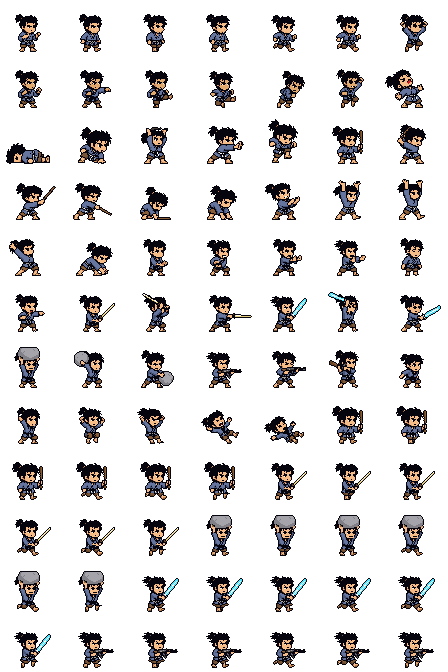
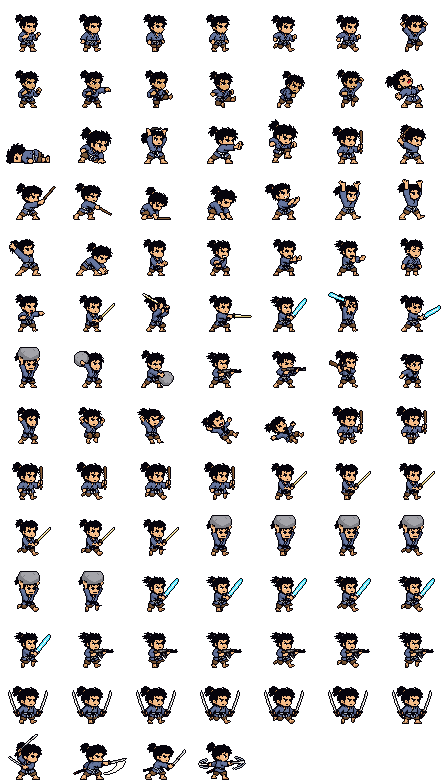
Own animations for the twin swords, from a generated sheet
Idle, walk, run, jump, the three slashes and the spinning pose of 炫風斬 come from art-src/sheet-twin.jpg. The sixth pose is cut out by hand because its blades touch the fifth cell.

Claude-Session: https://claude.ai/code/session_01WLaGBswDdpBGgJz1ff3MSA

diff --git a/src/client/render.ts b/src/client/render.ts
@@ -239,7 +239,9 @@ export class Renderer {
     const whirl = f.s === St.Whirl;
     if (tatsu) drawTornado(ctx, ox, oy - Math.round(f.z), f.t, true);
     const blades: [number, number] = f.w2 ? [f.w, f.w2] : [f.w, f.w];
-    if (whirl) drawWhirl(ctx, ox, oy - Math.round(f.z), f.t, false, blades);
+    // the twin swords have their own whirling picture; without it the arms and blades are drawn here
+    const whirlGfx = whirl && !(f.w === WID.Twin && !f.w2 && this.assets.hasArmed(f.d, f.w));
+    if (whirlGfx) drawWhirl(ctx, ox, oy - Math.round(f.z), f.t, false, blades);
     ctx.save();
     ctx.translate(ox, oy - Math.round(f.z));
     // 龍捲風腳 / 炫風斬: the body spins around its own axis, which on a flat sprite is a quick flip
@@ -248,7 +250,7 @@ export class Renderer {
     this.paint(ctx, f);
     ctx.restore();
     if (tatsu) drawTornado(ctx, ox, oy - Math.round(f.z), f.t, false);
-    if (whirl) drawWhirl(ctx, ox, oy - Math.round(f.z), f.t, true, blades);
+    if (whirlGfx) drawWhirl(ctx, ox, oy - Math.round(f.z), f.t, true, blades);
     if (f.s === St.Barrage) drawBarrage(ctx, ox, oy - Math.round(f.z), f.r, f.t);
     if (f.w === WID.Gatling && f.ht > GATLING.overheat) drawSteam(ctx, ox + f.r * 38, oy - Math.round(f.z) - 21, now);
     if (f.b & 2) drawShield(ctx, ox + f.r * 15, oy - Math.round(f.z), shieldMs, now, !!(f.b & 8));
@@ -662,7 +664,7 @@ function artFor(f: SnapFighter, hasArt: boolean): { weapon: number; anim?: strin
   if (f.s === St.Beam) return { weapon: 0, anim: f.t >= BEAM.charge + BEAM.fire ? 'beamend' : 'beam', t: f.t };
   if (f.s === St.Barrage) return { weapon: 0, anim: 'punch', t: f.t % 12 };
   if (f.s === St.Tatsu) return { weapon: 0, anim: 'kick', t: 7 };
-  if (f.s === St.Whirl) return { weapon: 0, anim: 'idle', t: 0 };
+  if (f.s === St.Whirl) return hasArt ? { weapon: 0, anim: 'whirl', t: f.t } : { weapon: 0, anim: 'idle', t: 0 };
   if ((f.s === St.Idle || f.s === St.Walk || f.s === St.Run) && f.c > 0) return { weapon: 0, anim: 'cast', t: 0 };
   if (!f.w) return { weapon: 0, t: f.t };
   if (f.w === WID.Stick || hasArt) return { weapon: f.w, t: f.t };

diff --git a/tools/build_sprites.py b/tools/build_sprites.py
@@ -53,6 +53,10 @@ SHEETS = [
          scale_from="sheet-weapon.png", main_only=True),
     dict(file="sheet-special.jpg", grid=(3, 2), names=["charge1", "charge2", "fire1", "fire2", "recover", "cast"],
          ref="recover", main_only=True, gain=1.12),
+    dict(file="sheet-twin.jpg", grid=(3, 2), names=["tready", "twind", "tslash1", "tslash2", "twhirl1", "twhirl2"],
+         ref="tready", main_only=True, split="components", grow=0, skip=["twhirl1", "twhirl2"]),
+    # the sixth pose's blades touch the fifth cell, so it is cut out of the sheet by hand
+    dict(file="sheet-twin-whirl.jpg", grid=(1, 1), names=["twhirl2"], scale_from="sheet-twin.jpg", main_only=True),
     dict(file="sheet-blades.jpg", grid=(3, 2), names=["bready", "bwind", "bstrike", "sready", "sstrike", "swind"],
          scale_from="sheet-special.jpg", main_only=True, split="components", grow=0, auto_gain=True),
     dict(file="sheet-heavy.jpg", grid=(3, 2), names=["stcarry", "stwind", "stsmash", "rready", "rfire", "rbash"],
@@ -93,6 +97,10 @@ PALETTE = [
     ("metal_light", (100, 100, 112)),
     ("gunwood", (136, 82, 42)),
     ("gunwood_dark", (88, 52, 28)),
+    ("steel", (176, 188, 204)),
+    ("steel_dark", (108, 120, 140)),
+    ("gold", (226, 178, 52)),
+    ("grip", (112, 26, 30)),
     ("nj_body", (34, 41, 63)),
     ("nj_body_dark", (15, 21, 34)),
     ("nj_body_hi", (56, 62, 84)),
@@ -124,6 +132,9 @@ ENTRY_SCOPE = {
     "gunwood": ["rready", "rfire", "rbash"],
     "gunwood_dark": ["rready", "rfire", "rbash"],
 }
+TWIN_POSES = ["tready", "twind", "tslash1", "tslash2", "twhirl2"]
+for _n in ("steel", "steel_dark", "gold", "grip"):
+    ENTRY_SCOPE[_n] = TWIN_POSES
 NINJA_POSES = ["n_idle", "n_walk1", "n_walk2", "n_wind", "n_punch", "n_kick", "n_hurt", "n_fly", "n_lying", "n_getup", "n_rush", "n_kick2"]
 for _n in ("nj_body", "nj_body_dark", "nj_body_hi", "nj_red", "nj_red_dark", "nj_metal", "nj_metal_dark"):
     ENTRY_SCOPE[_n] = NINJA_POSES
@@ -160,9 +171,10 @@ BASE_FRAMES = [
 # Armed stances per weapon suffix: the upper body of the "ready" frame is grafted onto
 # the legs of each locomotion frame. _w = stick, _w2 = bamboo sword, _w4 = energy sword.
 ARMED_BASES = ["walk1", "walk2", "walk3", "run1", "run2", "jump"]
-ARMED_SETS = {"_w": "idle_w", "_w2": "bready", "_w3": "stcarry", "_w4": "sready", "_w5": "rready"}
+ARMED_SETS = {"_w": "idle_w", "_w2": "bready", "_w3": "stcarry", "_w4": "sready", "_w5": "rready", "_w7": "tready"}
 ARMED = [f"{b}{suf}" for suf in ARMED_SETS for b in ARMED_BASES]
-FRAME_ORDER = BASE_FRAMES + ARMED
+# the twin swords' own poses come last so that every earlier frame keeps its number
+FRAME_ORDER = BASE_FRAMES + ARMED + TWIN_POSES
 
 # anim name -> frames (by pose name) and per-frame duration in game ticks
 ANIMS = {
@@ -195,7 +207,7 @@ ANIMS = {
     "shoot": (["windup", "punch", "windup"], [2, 6, 2]),
 }
 LOOPING = {"walk", "run", "hold"}
-for _suf, _idle in (("_w", "idle_w"), ("_w2", "bready"), ("_w3", "stcarry"), ("_w4", "sready"), ("_w5", "rready")):
+for _suf, _idle in (("_w", "idle_w"), ("_w2", "bready"), ("_w3", "stcarry"), ("_w4", "sready"), ("_w5", "rready"), ("_w7", "tready")):
     ANIMS[f"idle{_suf}"] = ([_idle], [60])
     ANIMS[f"walk{_suf}"] = ([f"walk1{_suf}", f"walk2{_suf}", f"walk3{_suf}", f"walk2{_suf}"], [8, 8, 8, 8])
     ANIMS[f"run{_suf}"] = ([f"run1{_suf}", f"run2{_suf}"], [4, 4])
@@ -206,6 +218,8 @@ ANIMS["swing_w2"] = (["bwind", "bstrike", "bstrike"], [4, 4, 10])
 ANIMS["swing_w4"] = (["swind", "sstrike", "sstrike"], [3, 5, 8])
 ANIMS["swing_w3"] = (["stwind", "stsmash", "stsmash"], [8, 4, 16])
 ANIMS["swing_w5"] = (["rbash", "rbash", "rready"], [4, 3, 9])
+ANIMS["swing_w7"] = (["twind", "tslash1", "tslash2"], [3, 4, 7])
+ANIMS["whirl"] = (["twhirl2"], [60])
 ANIMS["shoot_w5"] = (["rready", "rfire", "rready"], [2, 6, 2])
 LOOP_FROM = {"beam": 2}  # after the last frame, repeat from this frame index
 

diff --git a/README.md b/README.md
@@ -113,7 +113,7 @@ python3 tools/build_sprites.py --preview preview.png
 
 工具會自動去背、切格、縮成遊戲大小、對齊腳底、限制調色盤，並輸出四個換色角色與 `assets/manifest.json`。`preview.png` 可以快速檢查每一格。
 
-目前已有的動作：待機、走路、跑步、跳（上升、頂點、下降、落地緩衝）、出拳、踢、跳踢、百裂拳、龍捲風腳、昇龍拳、受傷、被打飛（空中兩種姿勢）、倒地、起身、抓起／扛著／揮舞敵人、丟、踩、撿東西、龜甲砲（蓄力、發射、收招）、連拳彈發射，以及五種武器（木棒、竹刀、石頭、光劍、AK-47）各自的持握（加特靈機槍和雙劍用程式畫，沒有專屬動畫）、走路、跑步、跳與攻擊。敵人有三郎（雜兵，換色版）、忍者、上層武士（揮刀）和大將軍（首領，揮鐵扇槌）；後三者都有專屬動畫。上層武士和大將軍由 `tools/build_enemies.py` 產生，各自從自己的圖抽出調色盤，大將軍用較大的格子。忍者會在中距離丟手裏劍（只打玩家，被盾擋住傷害會減少）。背景會隨著關卡推進從白天慢慢轉成黃昏。尚缺：受傷的變化（輕擊、重擊、被背後打、持武器被打）。
+目前已有的動作：待機、走路、跑步、跳（上升、頂點、下降、落地緩衝）、出拳、踢、跳踢、百裂拳、龍捲風腳、昇龍拳、受傷、被打飛（空中兩種姿勢）、倒地、起身、抓起／扛著／揮舞敵人、丟、踩、撿東西、龜甲砲（蓄力、發射、收招）、連拳彈發射，以及五種武器（木棒、竹刀、石頭、光劍、AK-47）各自的持握（加特靈機槍用程式畫，沒有專屬動畫；雙劍有專屬的持握、走路、跑步、跳、揮砍和炫風斬動作，來源是 `art-src/sheet-twin.jpg`，炫風斬那一格太貼近隔壁所以另外裁成 `sheet-twin-whirl.jpg`；用「竹刀＋光劍」這種兩把拼起來的雙持仍然是程式畫的）、走路、跑步、跳與攻擊。敵人有三郎（雜兵，換色版）、忍者、上層武士（揮刀）和大將軍（首領，揮鐵扇槌）；後三者都有專屬動畫。上層武士和大將軍由 `tools/build_enemies.py` 產生，各自從自己的圖抽出調色盤，大將軍用較大的格子。忍者會在中距離丟手裏劍（只打玩家，被盾擋住傷害會減少）。背景會隨著關卡推進從白天慢慢轉成黃昏。尚缺：受傷的變化（輕擊、重擊、被背後打、持武器被打）。
 
 背景是三層視差捲動：遠景（天空、富士山、遠山，捲動最慢）、中景（江戶街屋，後段接東海道松林與鳥居）、地面（路面磚，隨鏡頭）。來源圖在 `art-src/bg-*.jpg`，用 `python3 tools/build_bg.py` 去背、縮成遊戲大小、限制調色盤，輸出 `assets/gen/bg_*.png` 並寫入 `manifest.json` 的 `_backdrop`；沒有這些圖時會退回內建的簡易背景。
 
